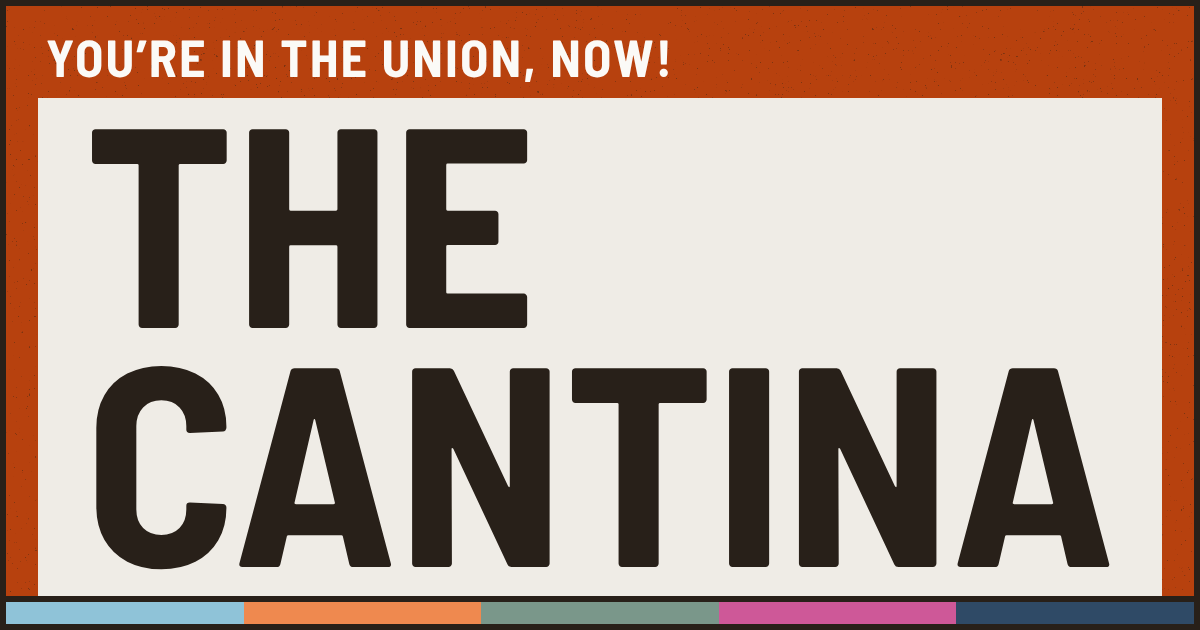
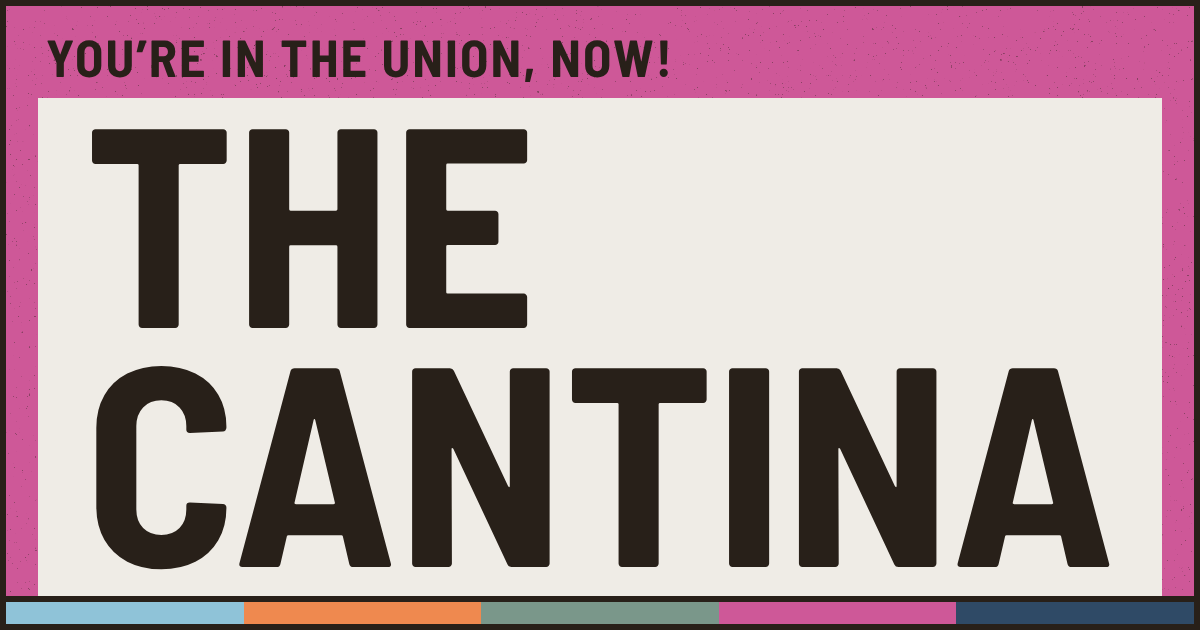
feat(itun): The Cantina wears Legendary pink, not tier rust
Claude-Session: https://claude.ai/code/session_01BUxziBVfbwz5asVnb5apaQ

Changed region(s): [[0.0, 0.0, 1.0, 0.9651]]

diff --git a/packages/component-lib/src/components/atoms/ChapterBand.tsx b/packages/component-lib/src/components/atoms/ChapterBand.tsx
@@ -55,10 +55,10 @@ import { USER_MADE_HATCH } from './userMadeHatch'
  * `pilot`, `mech`, `crawler` and `denizen` are the four chapters. `ink` is the
  * dark band of a page that is the player's own (ITUN's Shelves, board S1): it
  * wears paper flecks instead of ink speckle (ruleset §3.5). `cantina` is The
- * Cantina's own band, in tier rust. Content in `aside` and `eyebrow` is ink on
- * `rules`, `pilot`, `mech` and `crawler`; the `denizen` band is navy, the `ink`
- * band ink and the `cantina` band rust, and all three carry paper text — the
- * caller dresses it. A page that wants paper text on the crawler pink passes `fill`
+ * Cantina's own band, in Legendary pink. Content in `aside` and `eyebrow` is
+ * ink on `rules`, `pilot`, `mech`, `crawler` and `cantina`; the `denizen` band
+ * is navy and the `ink` band ink, and both carry paper text — the caller
+ * dresses it. A page that wants paper text on the crawler pink passes `fill`
  * the deeper `crawlerBand`, which carries it (the book's crawler pink carries
  * neither ink nor paper at 4.5 : 1).
  *

diff --git a/packages/component-lib/src/components/atoms/chapterBandColor.ts b/packages/component-lib/src/components/atoms/chapterBandColor.ts
@@ -10,8 +10,8 @@ import { color } from '../../design/tokens'
  * `cantina` is no chapter either: it is The Cantina's own band, the builder's
  * pages that are neither a chapter nor the player's shelves (its front door,
  * Dashboard, Settings, sign-in, invites, the Starter Set), so they stop wearing
- * the SRD's rules-blue. It is the Advanced/Hybrid tier rust, not the action
- * rust (ruleset §3.1), and it carries paper text.
+ * the SRD's rules-blue. It is the Legendary tier pink (the crawler chapter's
+ * colour), and like the crawler band it carries ink text.
  */
 export type ChapterTone = 'rules' | 'pilot' | 'mech' | 'crawler' | 'denizen' | 'ink' | 'cantina'
 
@@ -26,5 +26,5 @@ export const CHAPTER_BAND_COLOR: Record<ChapterTone, string> = {
   crawler: color.crawler,
   denizen: color.denizenBand,
   ink: color.ink,
-  cantina: color.tierHybrid,
+  cantina: color.crawler,
 }

diff --git a/packages/component-lib/src/components/atoms/ChapterFoot.tsx b/packages/component-lib/src/components/atoms/ChapterFoot.tsx
@@ -32,7 +32,7 @@ const FOOT_BAND: Record<ChapterTone, { background: string; text: string }> = {
   crawler: { background: color.crawlerBand, text: color.paper },
   denizen: { background: CHAPTER_BAND_COLOR.denizen, text: color.paper },
   ink: { background: CHAPTER_BAND_COLOR.ink, text: color.paper },
-  cantina: { background: CHAPTER_BAND_COLOR.cantina, text: color.paper },
+  cantina: { background: color.crawlerBand, text: color.paper },
 }
 
 export type ChapterFootProps = {

diff --git a/apps/itun/src/routes/og/brand.tsx b/apps/itun/src/routes/og/brand.tsx
@@ -6,7 +6,7 @@ import { pageTitle } from '../../lib/pageTitle'
 /**
  * `/og/brand` — the render surface of ITUN's own link preview,
  * `public/og-image.png`: the picture every route but a shared sheet or
- * invite unfurls with: "THE CANTINA" on its tier-rust band, under the legacy
+ * invite unfurls with: "THE CANTINA" on its Legendary-pink band, under the legacy
  * tagline.
  * The root draws it without chrome; nothing requests it at runtime.
  */

diff --git a/packages/component-lib/src/components/compositions/BrandCard.tsx b/packages/component-lib/src/components/compositions/BrandCard.tsx
@@ -34,7 +34,7 @@ export type BrandCardProps = {
    * "SALVAGE UNION.io".
    */
   title?: readonly [string, string]
-  /** The band's colour. The site's card wears rules-blue; The Cantina's its own. */
+  /** The band's colour. The site's card wears rules-blue; The Cantina's its pink. */
   tone?: ChapterTone
 }
 

diff --git a/apps/itun/src/components/roster/FrontDoor.tsx b/apps/itun/src/components/roster/FrontDoor.tsx
@@ -48,9 +48,7 @@ const COLUMN = {
   width: '100%',
 } satisfies CSSProperties
 
-/** Paper: the cantina band carries paper text (ChapterBand's colour map). */
 const KICKER = {
-  color: tokens.color.paper,
   fontFamily: tokens.font.cond,
   fontSize: tokens.fontSize.caption,
   fontWeight: tokens.weight.bold,
